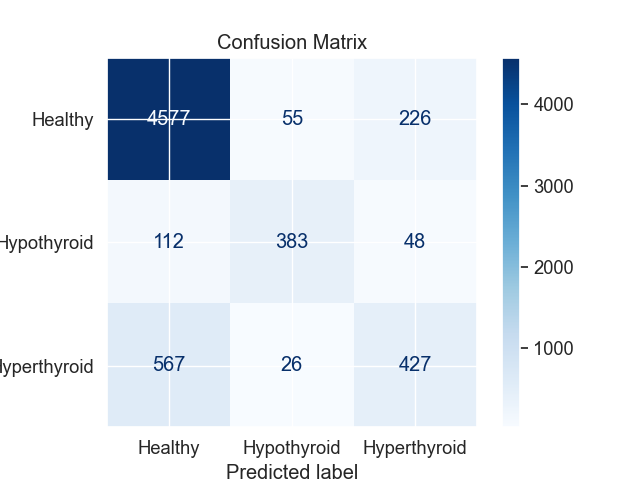
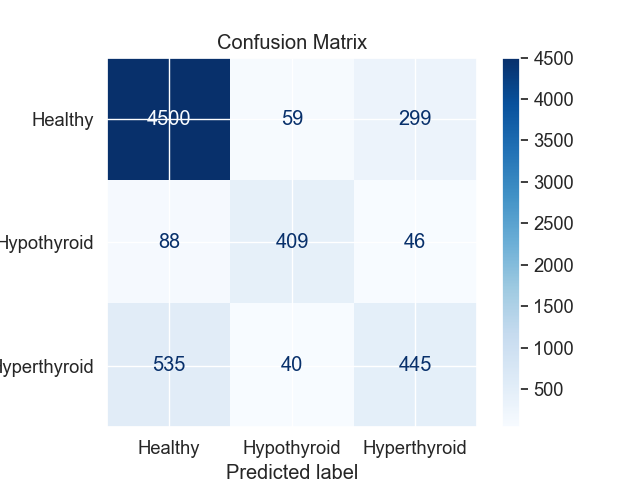
plots

diff --git a/thyroid-disease/Algorithms/thyroid_neural_network.py b/thyroid-disease/Algorithms/thyroid_neural_network.py
@@ -9,7 +9,7 @@ import matplotlib.pyplot as plt
 import seaborn as sns
 from sklearn.metrics import ConfusionMatrixDisplay
 
-epochs = 1000
+epochs = 10000
 batch_size = 20
 model_filename = 'thyroid-classifier-model.h5'
 
